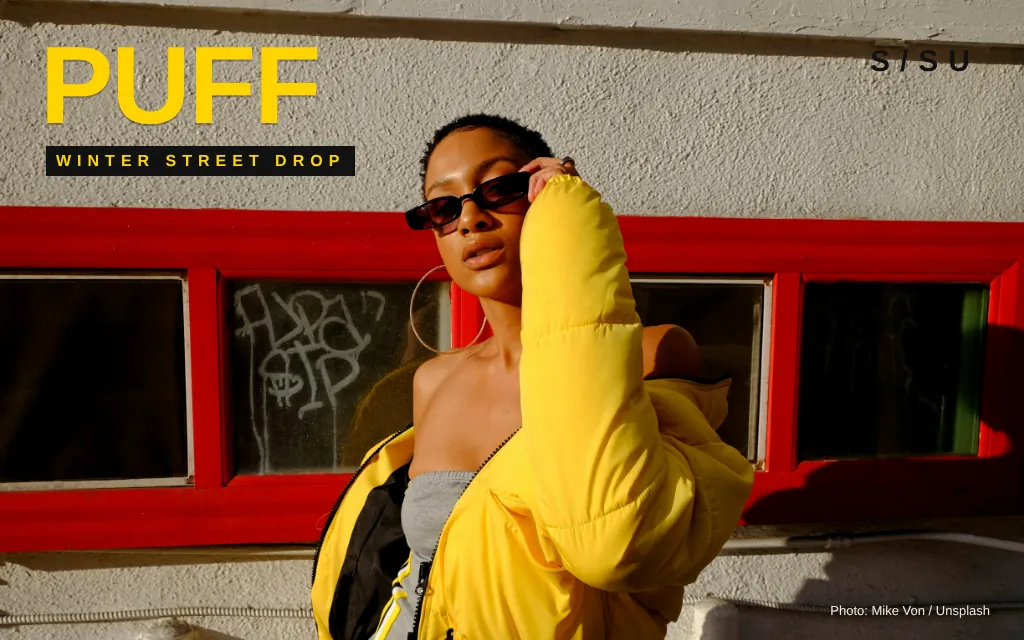
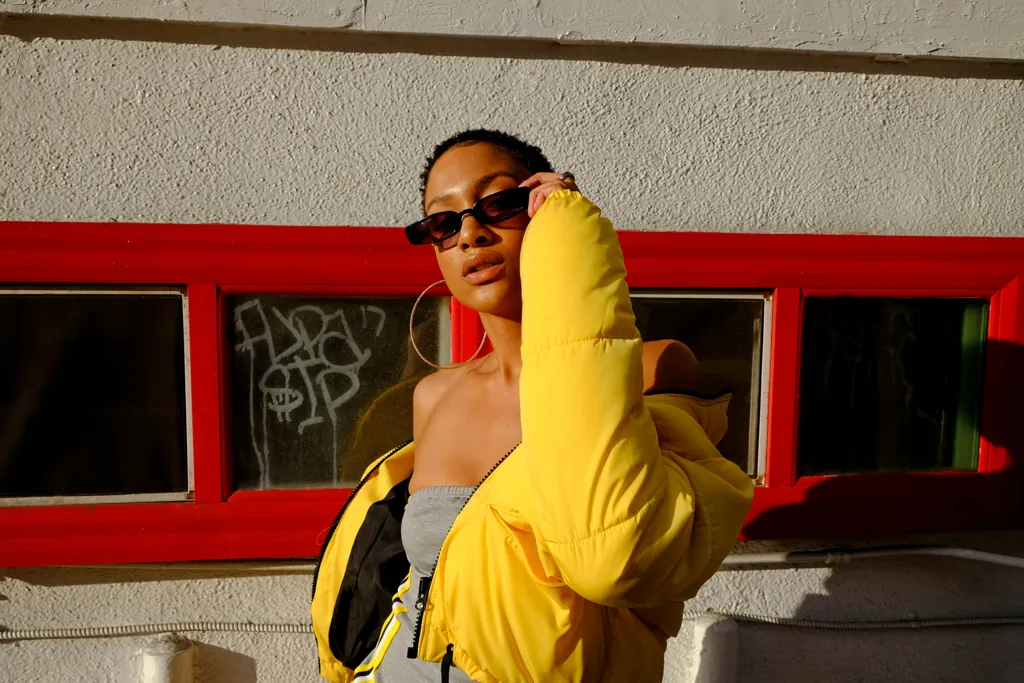
Show the poster photos as they are
No added titles or panels: each poster takes the photo's own shape and
is as big as the wall allows (sized when the image loads).

Claude-Session: https://claude.ai/code/session_018gjGZ6Hot2UxaZPSYroTxR

diff --git a/src/core/ad-posters.js b/src/core/ad-posters.js
@@ -121,6 +121,29 @@ function smallMaterials() {
   })));
 }
 
+// A photo poster in its own shape: fits a box of maxW × maxH metres
+// (bottom edge at `bottom`), sized once the image has loaded.
+const UNIT_PLANE = new THREE.PlaneGeometry(1, 1);
+const UNIT_BOX = new THREE.BoxGeometry(1, 1, 1);
+function photoPoster(g, url, maxW, maxH, bottom) {
+  const frame = new THREE.Mesh(UNIT_BOX, new THREE.MeshLambertMaterial({ color: 0x24262b }));
+  const poster = new THREE.Mesh(UNIT_PLANE, new THREE.MeshBasicMaterial());
+  frame.visible = poster.visible = false;
+  g.add(frame, poster);
+  const map = new THREE.TextureLoader().load(url, (tex) => {
+    const a = tex.image.width / tex.image.height;
+    const w = Math.min(maxW, maxH * a), h = w / a;
+    const y = bottom + h / 2;
+    poster.scale.set(w, h, 1);
+    poster.position.set(0, y, 0.12);
+    frame.scale.set(w + 0.3, h + 0.3, 0.1);
+    frame.position.set(0, y, 0.05);
+    frame.visible = poster.visible = true;
+  });
+  map.colorSpace = THREE.SRGBColorSpace;
+  poster.material.map = map;
+}
+
 // ── Meshes ──────────────────────────────────────────────────────────────
 const shutterMat = () => new THREE.MeshLambertMaterial({
   map: canvasTex(64, 64, (g, W, H) => {
@@ -159,14 +182,11 @@ export class AdPosters {
       // The big poster above the shutter.
       const top = (b.h || 8) - 0.6, bottom = sh + 0.6;
       const bw = Math.min(wide - 2, 10, ((top - bottom) / 0.62));
-      if (bw > 3) {
+      const ad = booked[id];
+      if (ad?.image) photoPoster(g, base + ad.image, Math.min(wide - 2, 10), top - bottom - 0.4, bottom + 0.4);
+      else if (bw > 3) {
         const bh = bw * 0.62;
-        const ad = booked[id];
-        let map;
-        if (ad?.image) {
-          map = new THREE.TextureLoader().load(base + ad.image);
-          map.colorSpace = THREE.SRGBColorSpace;
-        } else map = canvasTex(640, 400, (c, W, H) => (ad ? drawBooked(c, W, H, ad) : drawBig(c, W, H, id, k)));
+        const map = canvasTex(640, 400, (c, W, H) => (ad ? drawBooked(c, W, H, ad) : drawBig(c, W, H, id, k)));
         const frame = new THREE.Mesh(new THREE.BoxGeometry(bw + 0.4, bh + 0.4, 0.12), new THREE.MeshLambertMaterial({ color: 0x24262b }));
         const poster = new THREE.Mesh(new THREE.PlaneGeometry(bw, bh), new THREE.MeshBasicMaterial({ map }));
         const y = Math.min(bottom + bh / 2 + 0.4, top - bh / 2);
@@ -183,22 +203,14 @@ export class AdPosters {
       const lot = storeLot(buildings, placeOf(s, center, latLonToLocal));
       if (!lot) continue;
       const { b, front } = lot;
-      // Just above the shop sign, as wide as the building allows.
+      // Just above the shop sign, in the photo's own shape, as big as the
+      // wall allows.
       const bottom = 5.6, top = (b.h || 8) - 0.5;
-      const bw = Math.min(front.half * 2 - 0.8, 14, (top - bottom) / 0.62);
-      if (bw < 3) continue;
-      const bh = bw * 0.62;
+      if (front.half * 2 < 4 || top - bottom < 3) continue;
       const g = new THREE.Group();
       g.position.set(front.x + front.nx * 0.06, 0, front.z + front.nz * 0.06);
       g.rotation.y = Math.atan2(front.nx, front.nz);
-      const map = new THREE.TextureLoader().load(base + ad.image);
-      map.colorSpace = THREE.SRGBColorSpace;
-      const y = bottom + bh / 2;
-      const frame = new THREE.Mesh(new THREE.BoxGeometry(bw + 0.3, bh + 0.3, 0.1), new THREE.MeshLambertMaterial({ color: 0x24262b }));
-      const poster = new THREE.Mesh(new THREE.PlaneGeometry(bw, bh), new THREE.MeshBasicMaterial({ map }));
-      frame.position.set(0, y, 0.05);
-      poster.position.set(0, y, 0.11);
-      g.add(frame, poster);
+      photoPoster(g, base + ad.image, front.half * 2 - 0.8, top - bottom, bottom);
       this.root.add(g);
     }
     scene.add(this.root);
